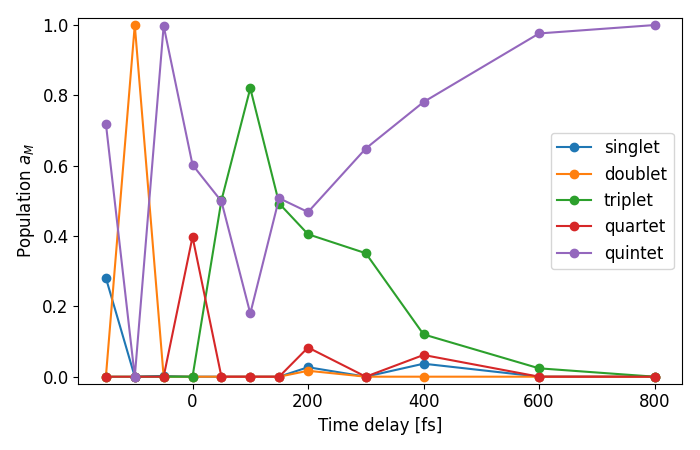
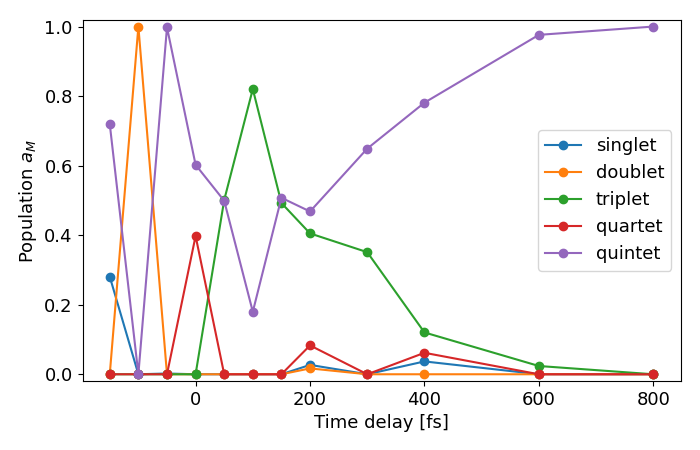
13pt

diff --git a/P6/Auswertung EXP21/fit/fit_v5.py b/P6/Auswertung EXP21/fit/fit_v5.py
@@ -2,13 +2,13 @@ import numpy as np
 import matplotlib.pyplot as plt
 
 plt.rcParams.update({
-    "font.size": 12,
-    "axes.titlesize": 12,
-    "axes.labelsize": 12,
-    "xtick.labelsize": 12,
-    "ytick.labelsize": 12,
-    "legend.fontsize": 12,
-    "legend.title_fontsize": 12,
+    "font.size": 13,
+    "axes.titlesize": 13,
+    "axes.labelsize": 13,
+    "xtick.labelsize": 13,
+    "ytick.labelsize": 13,
+    "legend.fontsize": 13,
+    "legend.title_fontsize": 13,
 })
 
 from pathlib import Path
